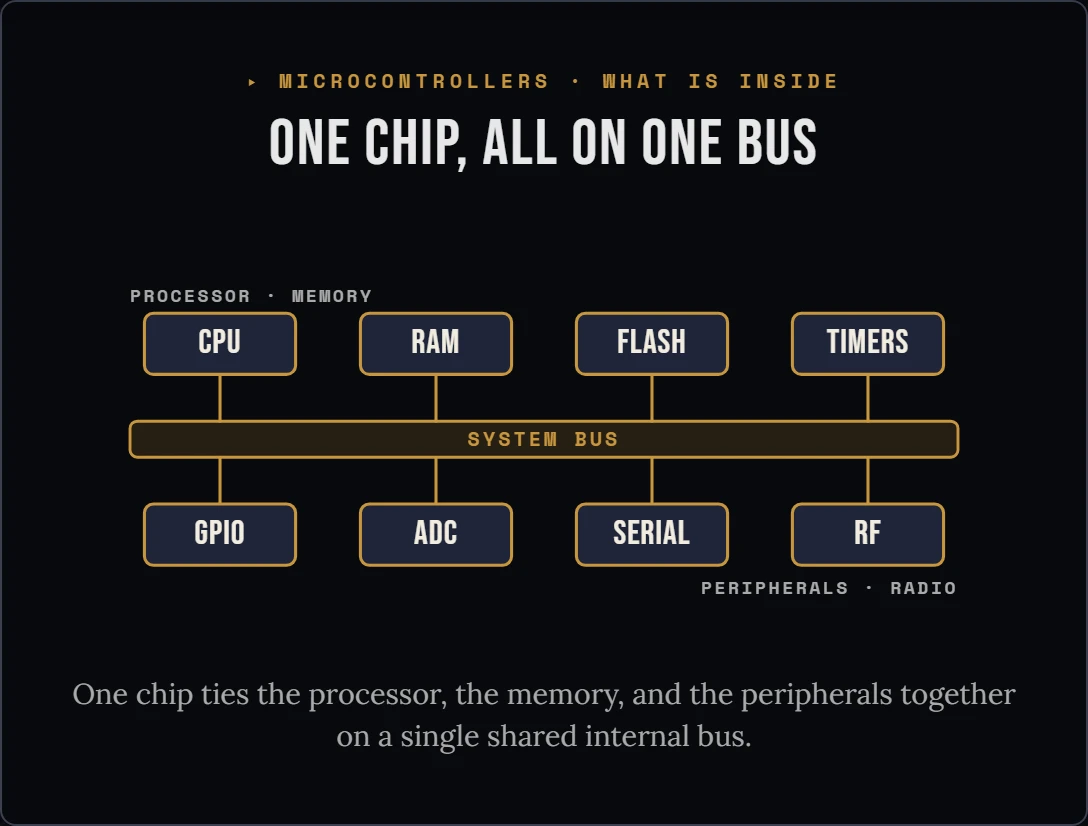
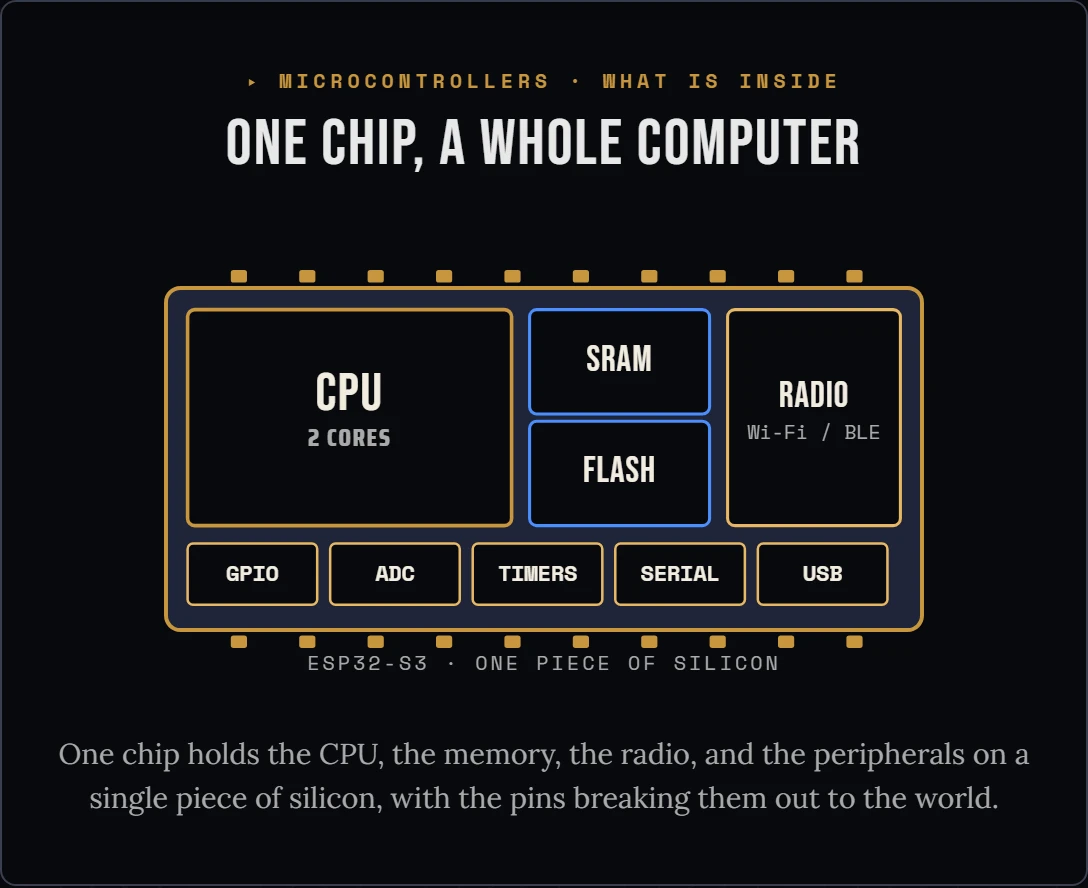
redo(diagrams): mcu-block-diagram — die floorplan (1/11 house-aesthetic redo)
Rebuild to the OTD house bar (rejected #289 version was uniform labeled boxes).
The chip package is now the hero: a die floorplan with the CPU as the dominant
block, memory beside it (blue = data at rest), the radio in its own column, and
the peripherals lining the floor and breaking out through the package pins.
Token color, both themes, phone reflow, landscape 1.24.

diff --git a/src/components/guide/diagrams/McuBlockDiagram.tsx b/src/components/guide/diagrams/McuBlockDiagram.tsx
@@ -1,73 +1,75 @@
-// What is inside a microcontroller (v2). Microcontrollers & ESP32 cluster.
-// Owner-picked composition B9 ("the bus spine") from the diagram-1 round-2 sandbox.
+// What is inside a microcontroller: the die floorplan (diagram-standards v2).
+// Microcontrollers & ESP32 cluster, diagram 1. Owner-picked A7.
 //
-// Teaching point: a microcontroller is one chip that ties a processor, memory,
-// and a set of peripherals together on a single shared internal bus. The CPU, the
-// RAM and flash, and the peripheral blocks (GPIO, ADC, timers, serial, radio) all
-// hang off that one bus.
+// Teaching point (lesson 0): a microcontroller is one chip that carries a CPU,
+// its memory (SRAM + flash), a radio, and a row of peripherals on a single piece
+// of silicon. The chip package is the hero — the CPU is the dominant block, the
+// memory sits beside it (blue = data at rest), the radio fills a column, and the
+// peripherals line the floor and break out through the pins to the world.
 //
-// Landscape desktop/print: a horizontal system bus with the blocks tapping it
-// above and below. REFLOWS on a phone to the bus + a grouped block list.
-// Token-only color.
+// One inline SVG, color via CSS classes so both themes flip. Reflows on a phone
+// to the die header + a grouped block list. Header + caption from DiagramFrame.
 import { DiagramFrame } from "./DiagramFrame";
 
-const TOP = [
-  { n: "CPU", x: 90 }, { n: "RAM", x: 210 }, { n: "FLASH", x: 330 }, { n: "TIMERS", x: 450 },
-];
-const BOT = [
-  { n: "GPIO", x: 90 }, { n: "ADC", x: 210 }, { n: "SERIAL", x: 330 }, { n: "RF", x: 450 },
-];
-const BUS_Y = 104, BUS_H = 20;
+const PADS = 10;
+const PERIPHERALS = ["GPIO", "ADC", "TIMERS", "SERIAL", "USB"];
 
 export function McuBlockDiagram({ caption }: { caption?: string }) {
   return (
     <DiagramFrame
       eyebrow="MICROCONTROLLERS · WHAT IS INSIDE"
       tone="gold"
-      title="One chip, all on one bus"
-      ariaLabel="What is inside a microcontroller, drawn as a shared internal bus. A single system bus runs across the middle of the chip, and every block hangs off it. Above the bus sit the processor (the CPU) and the memory (RAM, the working memory, and flash, which keeps the firmware), along with the timers. Below the bus sit the peripherals that reach the outside world: GPIO, the ADC, the serial buses, and the radio. Because they all share one bus on one die, the CPU can read and write any of them. That is what makes it one chip instead of a boardful of parts."
+      title="One chip, a whole computer"
+      ariaLabel="What is inside a microcontroller, drawn as one die. Inside a single chip package sit the CPU (two cores, which runs your program), the memory (SRAM for the working variables and flash for the firmware), the radio (Wi-Fi and Bluetooth Low Energy), and a row of peripherals (GPIO, ADC, timers, serial, USB) that reach the outside world through the package pins. A desktop computer spreads those across many separate parts; a microcontroller puts them all on one piece of silicon."
       caption={caption}
-      defaultCaption="One chip ties the processor, the memory, and the peripherals together on a single shared internal bus."
+      defaultCaption="One chip holds the CPU, the memory, the radio, and the peripherals on a single piece of silicon, with the pins breaking them out to the world."
     >
       <style>{CSS}</style>
-
-      <div className="bd">
-        {/* desktop / print */}
-        <svg className="bd-scene" viewBox="0 0 540 216" aria-hidden="true">
-          {/* the system bus */}
-          <rect className="bd-busfill" x={40} y={BUS_Y} width={460} height={BUS_H} rx={4} />
-          <rect className="bd-busln" x={40} y={BUS_Y} width={460} height={BUS_H} rx={4} />
-          <text className="bd-buslbl" x={270} y={BUS_Y + 14} textAnchor="middle">SYSTEM BUS</text>
-
-          {/* top blocks + taps */}
-          {TOP.map((b) => (
-            <g key={b.n}>
-              <rect className="bd-blk" x={b.x - 42} y={44} width={84} height={34} rx={5} />
-              <text className="bd-nm" x={b.x} y={66} textAnchor="middle">{b.n}</text>
-              <line className="bd-tap" x1={b.x} y1={78} x2={b.x} y2={BUS_Y} />
+      <div className="mb">
+        <svg className="mb-svg" viewBox="0 0 540 250" aria-hidden="true">
+          {/* package */}
+          <rect x="60" y="30" width="420" height="190" rx="8" className="mb-pkg" />
+          {Array.from({ length: PADS }, (_, i) => (
+            <g key={i}>
+              <rect x={96 + i * 38} y="20" width="9" height="7" rx="1.5" className="mb-pad" />
+              <rect x={96 + i * 38} y="223" width="9" height="7" rx="1.5" className="mb-pad" />
             </g>
           ))}
 
-          {/* bottom blocks + taps */}
-          {BOT.map((b) => (
-            <g key={b.n}>
-              <line className="bd-tap" x1={b.x} y1={BUS_Y + BUS_H} x2={b.x} y2={150} />
-              <rect className="bd-blk" x={b.x - 42} y={150} width={84} height={34} rx={5} />
-              <text className="bd-nm" x={b.x} y={172} textAnchor="middle">{b.n}</text>
+          {/* CPU — dominant block */}
+          <rect x="72" y="42" width="180" height="120" rx="4" className="mb-cpu" />
+          <text x="162" y="98" textAnchor="middle" className="mb-nm-lg">CPU</text>
+          <text x="162" y="118" textAnchor="middle" className="mb-sub">2 CORES</text>
+
+          {/* memory — blue = data at rest */}
+          <rect x="262" y="42" width="100" height="58" rx="4" className="mb-mem" />
+          <text x="312" y="76" textAnchor="middle" className="mb-nm">SRAM</text>
+          <rect x="262" y="104" width="100" height="58" rx="4" className="mb-mem" />
+          <text x="312" y="138" textAnchor="middle" className="mb-nm">FLASH</text>
+
+          {/* radio */}
+          <rect x="372" y="42" width="96" height="120" rx="4" className="mb-rf" />
+          <text x="420" y="96" textAnchor="middle" className="mb-nm">RADIO</text>
+          <text x="420" y="114" textAnchor="middle" className="mb-tag">Wi-Fi / BLE</text>
+
+          {/* peripheral floor */}
+          {PERIPHERALS.map((p, i) => (
+            <g key={p}>
+              <rect x={72 + i * 79.2} y="172" width="72" height="34" rx="3" className="mb-per" />
+              <text x={72 + i * 79.2 + 36} y="193" textAnchor="middle" className="mb-per-nm">{p}</text>
             </g>
           ))}
 
-          {/* role labels in the gutters */}
-          <text className="bd-role" x={40} y={38} textAnchor="start">PROCESSOR · MEMORY</text>
-          <text className="bd-role" x={500} y={200} textAnchor="end">PERIPHERALS · RADIO</text>
+          <text x="270" y="242" textAnchor="middle" className="mb-die">ESP32-S3 · ONE PIECE OF SILICON</text>
         </svg>
 
         {/* phone reflow */}
-        <div className="bd-phone" aria-hidden="true">
-          <p className="bd-pbus">SYSTEM BUS <span>ties it all together</span></p>
-          <div className="bd-prow"><span className="bd-peye">Processor</span><span className="bd-pv">CPU · 2 cores</span></div>
-          <div className="bd-prow"><span className="bd-peye">Memory</span><span className="bd-pv">RAM (volatile) · FLASH (firmware)</span></div>
-          <div className="bd-prow"><span className="bd-peye">Peripherals</span><span className="bd-pv">GPIO · ADC · TIMERS · SERIAL · RF</span></div>
+        <div className="mb-phone" aria-hidden="true">
+          <p className="mb-pdie">ESP32-S3 <span>one die</span></p>
+          <div className="mb-prow"><span className="mb-peye">Processor</span><span className="mb-pv">CPU · 2 cores, runs your code</span></div>
+          <div className="mb-prow mb-prow-b"><span className="mb-peye mb-peye-b">Memory</span><span className="mb-pv">SRAM (working) · FLASH (firmware)</span></div>
+          <div className="mb-prow"><span className="mb-peye">Radio</span><span className="mb-pv">Wi-Fi · Bluetooth LE</span></div>
+          <div className="mb-prow"><span className="mb-peye">Peripherals</span><span className="mb-pv">GPIO · ADC · TIMERS · SERIAL · USB</span></div>
         </div>
       </div>
     </DiagramFrame>
@@ -75,22 +77,36 @@ export function McuBlockDiagram({ caption }: { caption?: string }) {
 }
 
 const CSS = `
-.bd{display:block;}
-.bd-scene{display:block;width:100%;height:auto;overflow:visible;}
-.bd-busfill{fill:var(--color-command-gold,#c8963e);opacity:.16;}
-.bd-busln{fill:none;stroke:var(--color-command-gold,#c8963e);stroke-width:1.6;}
-.bd-blk{fill:var(--color-navy-dark,#1a1a2e);stroke:var(--color-command-gold,#c8963e);stroke-width:1.7;}
-.bd-tap{stroke:var(--color-command-gold,#c8963e);stroke-width:1.7;stroke-linecap:round;}
-.bd-buslbl{font-family:var(--font-mono,"Space Mono",monospace);font-weight:700;font-size:11px;letter-spacing:.16em;fill:var(--color-command-gold,#c8963e);}
-.bd-nm{font-family:var(--font-display,"Bebas Neue",sans-serif);font-size:19px;letter-spacing:.03em;fill:var(--color-title,#f1ece0);}
-.bd-role{font-family:var(--font-mono,"Space Mono",monospace);font-weight:700;font-size:10px;letter-spacing:.14em;fill:var(--color-muted,#aaa);}
+.mb{display:block;}
+.mb-svg{display:block;width:100%;height:auto;overflow:visible;}
+.mb-pkg{fill:var(--color-navy-dark,#1a1a2e);stroke:var(--color-command-gold,#c8963e);stroke-width:2.2;}
+.mb-pad{fill:var(--color-command-gold,#c8963e);}
+.mb-cpu{fill:var(--color-deep-space,#08090d);stroke:var(--color-command-gold,#c8963e);stroke-width:2;}
+.mb-mem{fill:var(--color-deep-space,#08090d);stroke:var(--color-signal-blue,#4a8fff);stroke-width:1.7;}
+.mb-rf{fill:var(--color-deep-space,#08090d);stroke:var(--color-gold-light,#e8b865);stroke-width:1.7;}
+.mb-per{fill:var(--color-deep-space,#08090d);stroke:var(--color-gold-light,#e8b865);stroke-width:1.4;}
+.mb-nm-lg{font-family:var(--font-display,"Bebas Neue",sans-serif);font-size:30px;letter-spacing:.03em;fill:var(--color-title,#f1ece0);}
+.mb-nm{font-family:var(--font-display,"Bebas Neue",sans-serif);font-size:20px;letter-spacing:.03em;fill:var(--color-title,#f1ece0);}
+.mb-sub{font-family:var(--font-numeral,"Saira Condensed",sans-serif);font-weight:700;font-size:14px;letter-spacing:.06em;fill:var(--color-muted,#aaaaaa);}
+.mb-tag{font-family:var(--font-mono,"Space Mono",monospace);font-size:11px;fill:var(--color-muted,#aaaaaa);}
+.mb-per-nm{font-family:var(--font-mono,"Space Mono",monospace);font-weight:700;font-size:12px;fill:var(--color-title,#f1ece0);}
+.mb-die{font-family:var(--font-mono,"Space Mono",monospace);font-size:11px;letter-spacing:.16em;fill:var(--color-muted,#aaaaaa);}
 
 /* phone reflow */
-.bd-phone{display:none;}
-@media (max-width:520px){ .bd-scene{display:none;} .bd-phone{display:block;text-align:left;} }
-.bd-pbus{margin:0 0 .7rem;text-align:center;font-family:var(--font-mono,"Space Mono",monospace);font-weight:700;font-size:.82rem;letter-spacing:.14em;color:var(--color-command-gold,#c8963e);border:1px solid var(--color-command-gold,#c8963e);border-radius:5px;padding:.4rem;background:color-mix(in srgb, var(--color-command-gold,#c8963e) 12%, transparent);}
-.bd-pbus span{display:block;font-weight:400;font-size:.66rem;letter-spacing:.04em;color:var(--color-muted,#aaa);margin-top:.15rem;}
-.bd-prow{display:flex;flex-direction:column;gap:.15rem;border:1px solid var(--color-panel-border,#3a3f50);background:var(--color-navy-dark,#1a1a2e);border-radius:6px;padding:.55rem .7rem;margin-bottom:.5rem;}
-.bd-peye{font-family:var(--font-mono,"Space Mono",monospace);font-weight:700;font-size:.66rem;letter-spacing:.12em;text-transform:uppercase;color:var(--color-command-gold,#c8963e);}
-.bd-pv{font-family:var(--font-mono,"Space Mono",monospace);font-size:.92rem;color:var(--color-text,#e8e8e8);}
+.mb-phone{display:none;}
+@media (max-width:520px){ .mb-svg{display:none;} .mb-phone{display:block;text-align:left;} }
+.mb-pdie{margin:0 0 .7rem;text-align:center;font-family:var(--font-mono,"Space Mono",monospace);font-weight:700;font-size:.86rem;letter-spacing:.14em;color:var(--color-command-gold,#c8963e);border:1px solid var(--color-command-gold,#c8963e);border-radius:5px;padding:.45rem;}
+.mb-pdie span{font-weight:400;letter-spacing:.04em;text-transform:none;color:var(--color-muted,#aaaaaa);}
+.mb-prow{display:flex;flex-direction:column;gap:.15rem;border:1px solid var(--color-gold-light,#e8b865);background:var(--color-navy-dark,#1a1a2e);border-radius:6px;padding:.55rem .7rem;margin-bottom:.5rem;}
+.mb-prow-b{border-color:var(--color-signal-blue,#4a8fff);}
+.mb-peye{font-family:var(--font-mono,"Space Mono",monospace);font-weight:700;font-size:.68rem;letter-spacing:.12em;text-transform:uppercase;color:var(--color-command-gold,#c8963e);}
+.mb-peye-b{color:var(--color-signal-blue,#4a8fff);}
+.mb-pv{font-family:var(--font-mono,"Space Mono",monospace);font-size:.92rem;color:var(--color-text,#e8e8e8);}
+
+/* Tier-B reveal off the frame's armed/in contract (final state under reduced-motion). */
+.dgfrm.armed .mb-svg,.dgfrm.armed .mb-phone{opacity:0;transform:translateY(6px);}
+.dgfrm.armed.in .mb-svg,.dgfrm.armed.in .mb-phone{opacity:1;transform:none;transition:opacity .6s ease,transform .6s cubic-bezier(.2,.7,.2,1);}
+@media (prefers-reduced-motion:reduce){
+  .dgfrm .mb-svg,.dgfrm .mb-phone{opacity:1!important;transform:none!important;transition:none!important;}
+}
 `;
